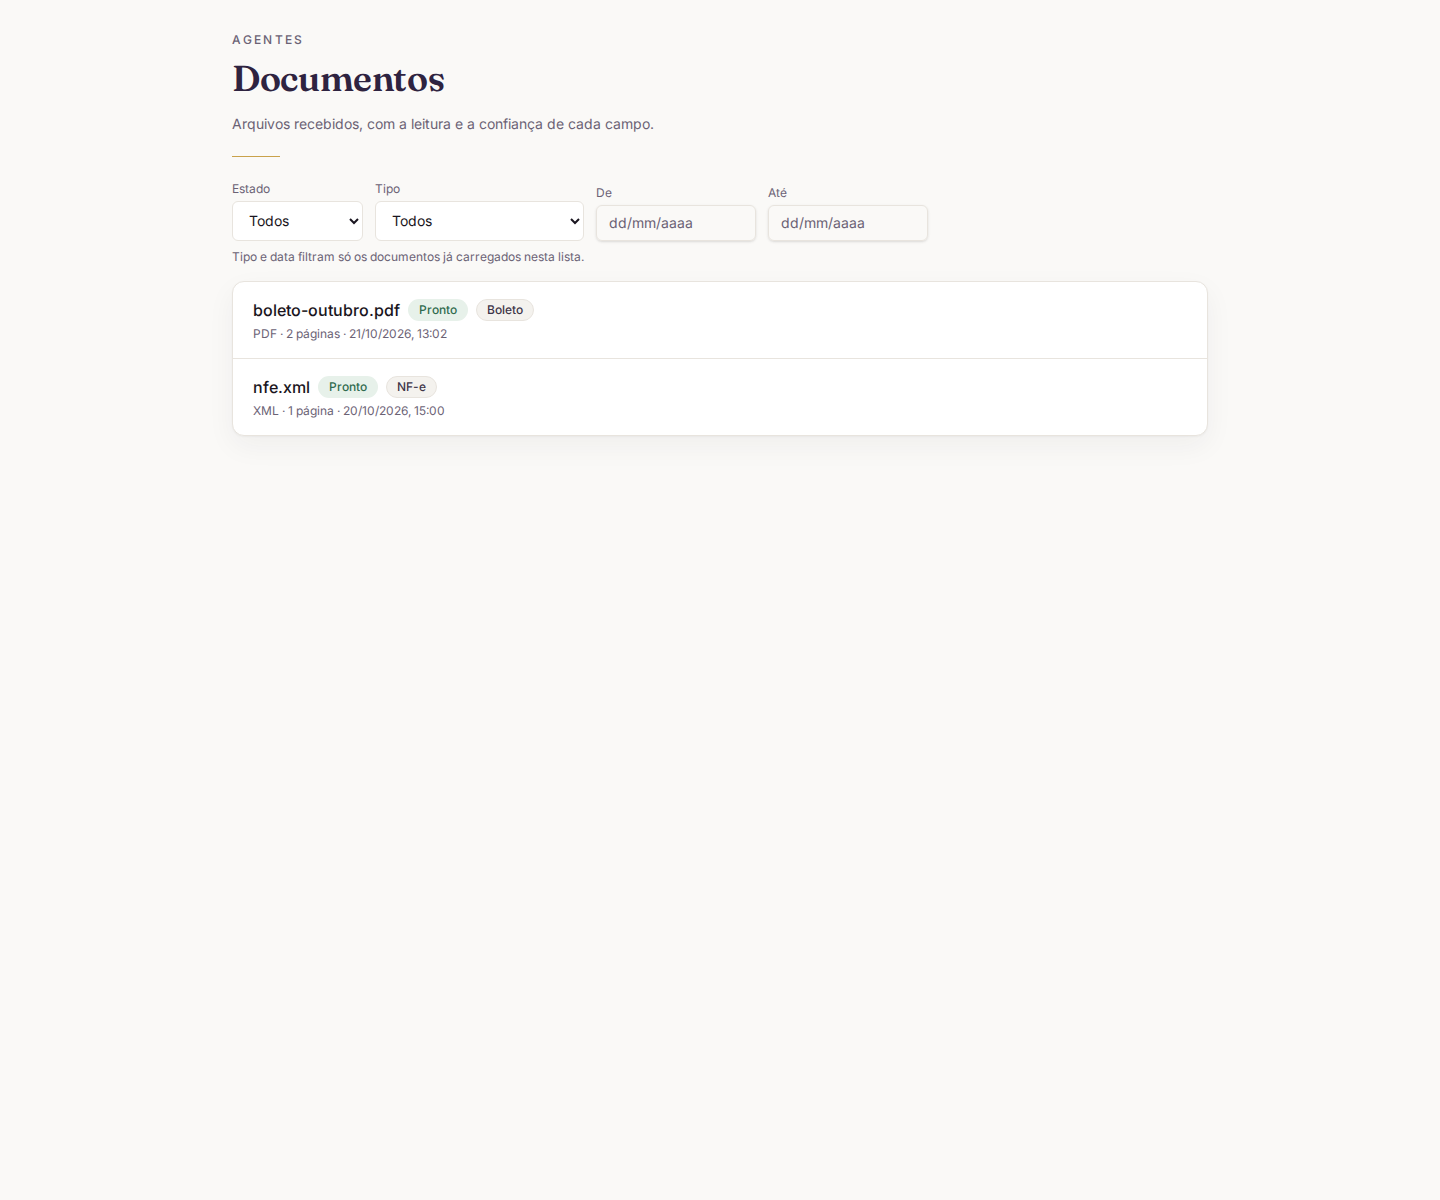
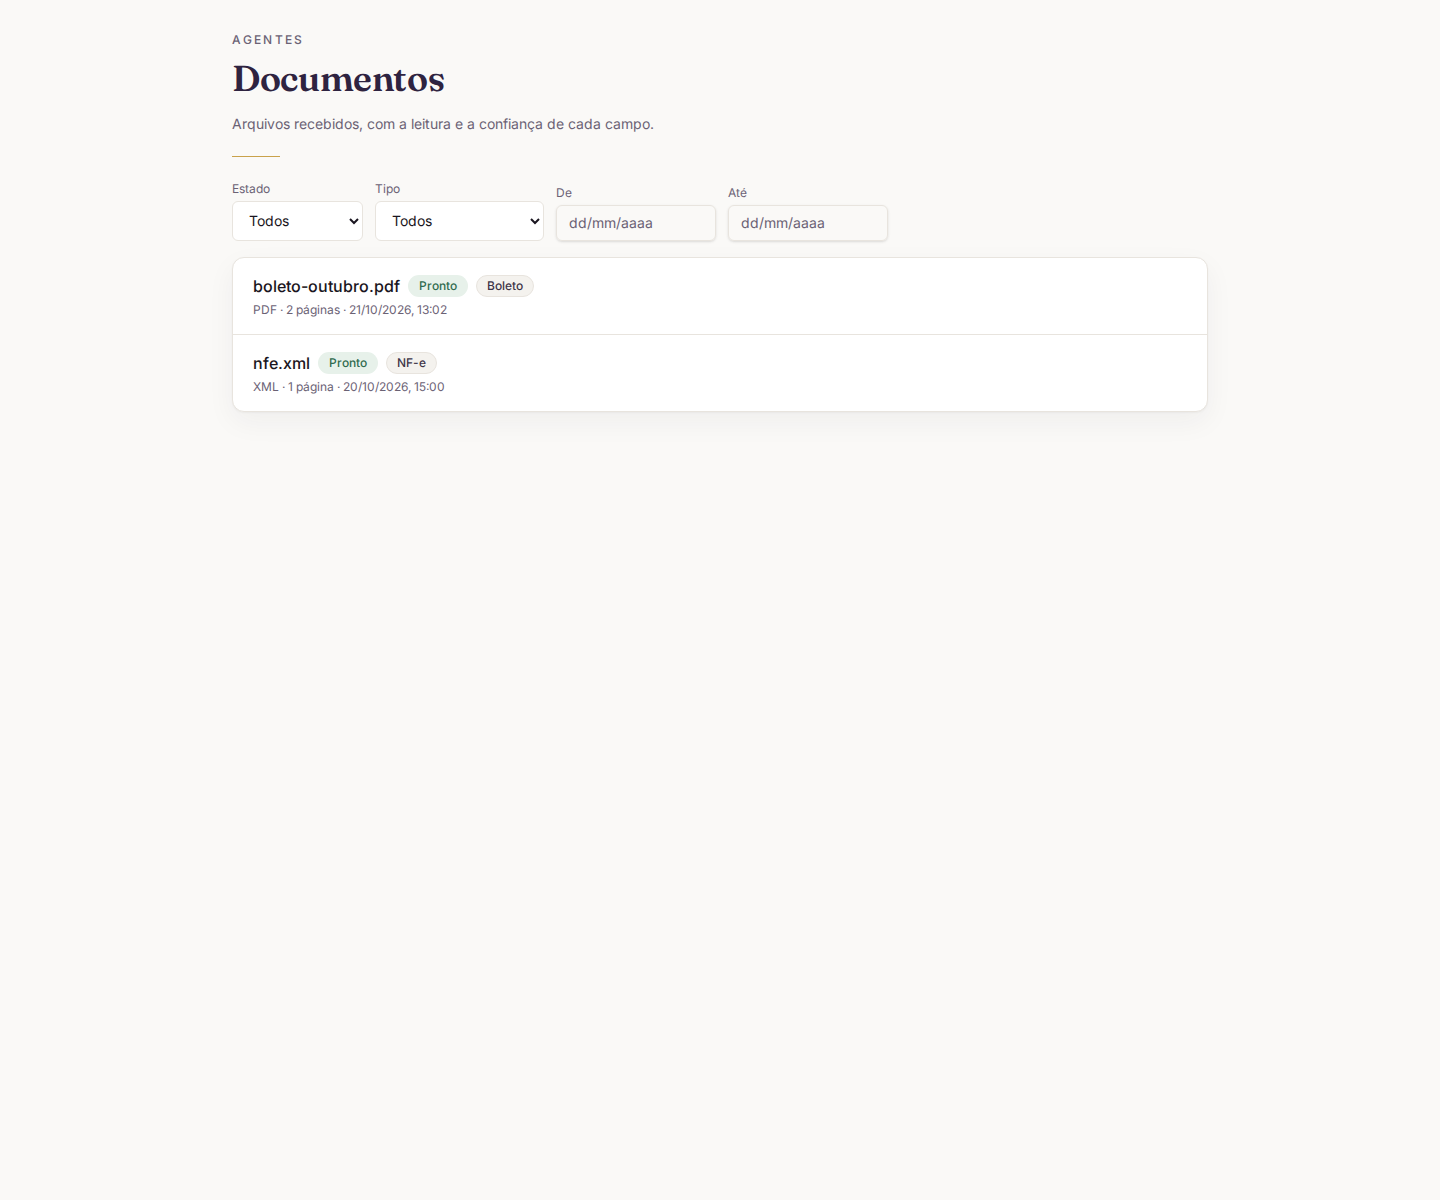
Mostra a reativação no contato e libera o segredo novo por 24 h.
O gateway já devolve quem reativou, o motivo e o prazo do segredo anterior. O botão fica com admin e plataforma.

Changed region(s): [[0.1562, 0.1542, 0.4688, 0.37], [0.5, 0.1542, 0.5938, 0.2158]]

diff --git a/src/components/luxtia/WebhooksSaida.tsx b/src/components/luxtia/WebhooksSaida.tsx
@@ -27,8 +27,8 @@ import { Input } from "@/components/ui/input";
 import { Switch } from "@/components/ui/switch";
 import { dataHoraBrasilia } from "@/lib/gateway/documentos";
 import {
-  ROTACAO_SEGREDO_LIBERADA,
   gruposDeEventos,
+  textoSegredoAnterior,
   type EntregaWebhook,
   type WebhookSaida,
 } from "@/lib/gateway/webhooks";
@@ -45,6 +45,7 @@ export function WebhooksSaidaTela({
   onTestar,
   onEntregas,
   onGerarSegredo,
+  podeGerarSegredo,
   segredo,
   onFecharSegredo,
 }: {
@@ -59,6 +60,7 @@ export function WebhooksSaidaTela({
   onTestar: (w: WebhookSaida) => void;
   onEntregas: (w: WebhookSaida) => void;
   onGerarSegredo: (w: WebhookSaida) => void;
+  podeGerarSegredo: boolean;
   segredo: string | null;
   onFecharSegredo: () => void;
 }) {
@@ -105,6 +107,11 @@ export function WebhooksSaidaTela({
                     </Etiqueta>
                   ))}
                 </div>
+                {textoSegredoAnterior(w.segredo_anterior_ate) ? (
+                  <p className="text-xs text-ink-500">
+                    {textoSegredoAnterior(w.segredo_anterior_ate)}
+                  </p>
+                ) : null}
                 <div className="flex flex-wrap gap-2">
                   <Button variant="outline" size="sm" onClick={() => setAberto(w)}>
                     Editar
@@ -120,7 +127,7 @@ export function WebhooksSaidaTela({
                   <Button variant="ghost" size="sm" onClick={() => onEntregas(w)}>
                     Entregas
                   </Button>
-                  {ROTACAO_SEGREDO_LIBERADA ? (
+                  {podeGerarSegredo ? (
                     <AlertDialog>
                       <AlertDialogTrigger asChild>
                         <Button variant="outline" size="sm" disabled={salvando}>
@@ -131,8 +138,8 @@ export function WebhooksSaidaTela({
                         <AlertDialogHeader>
                           <AlertDialogTitle>Gerar um segredo novo?</AlertDialogTitle>
                           <AlertDialogDescription>
-                            O segredo atual deixa de valer na hora. O novo aparece só desta vez —
-                            copie antes de fechar.
+                            O segredo antigo continua valendo por mais 24 horas. O novo aparece só
+                            desta vez — copie antes de fechar.
                           </AlertDialogDescription>
                         </AlertDialogHeader>
                         <AlertDialogFooter>

diff --git a/src/lib/gateway/webhooks.ts b/src/lib/gateway/webhooks.ts
@@ -108,7 +108,30 @@ export type WebhookSaida = {
   eventos: string[];
   ativo: boolean;
   segredo?: string;
+  segredo_anterior_ate?: string | null;
 };
+
+/** "Segredo anterior válido até dd/mm hh:mm" em Brasília, ou vazio se não houver prazo. */
+export function textoSegredoAnterior(iso: string | null | undefined) {
+  if (!iso) return "";
+  const data = new Date(iso);
+  if (Number.isNaN(data.getTime())) return "";
+  const partes = new Intl.DateTimeFormat("pt-BR", {
+    timeZone: "America/Sao_Paulo",
+    day: "2-digit",
+    month: "2-digit",
+    hour: "2-digit",
+    minute: "2-digit",
+    hourCycle: "h23",
+  }).formatToParts(data);
+  const ler = (tipo: string) => partes.find((p) => p.type === tipo)?.value ?? "";
+  const dia = ler("day");
+  const mes = ler("month");
+  const hora = ler("hour");
+  const minuto = ler("minute");
+  if (!dia || !mes || !hora || !minuto) return "";
+  return `Segredo anterior válido até ${dia}/${mes} ${hora}:${minuto}`;
+}
 
 export type EntregaWebhook = {
   id: number;
@@ -118,12 +141,6 @@ export type EntregaWebhook = {
   http_status: number | null;
   criado_em: string;
 };
-
-/**
- * A rota POST …/rotacionar-segredo já responde no gateway.
- * O botão fica escondido até a liberação explícita.
- */
-export const ROTACAO_SEGREDO_LIBERADA = false;
 
 export const webhookSchema = z.discriminatedUnion("acao", [
   z.object({ empresa, acao: z.literal("listar") }).strict(),

diff --git a/src/lib/gateway/documentos.test.ts b/src/lib/gateway/documentos.test.ts
@@ -11,6 +11,7 @@ import {
   origensDoTexto,
   parametrosListaDocumentos,
   rotuloCampoDocumento,
+  rotuloTipo,
   textoExpira,
 } from "./documentos";
 import { executarDocumentos } from "./documentos.server";
@@ -18,7 +19,7 @@ import { executarWebhook } from "./webhooks.server";
 import { gradeJanela, lerJanela, MENSAGEM_FOLLOWUP_AUSENTE } from "./followup";
 import { executarFollowUp } from "./followup.server";
 import { GatewayErro } from "./erros";
-import { EVENTOS_SAIDA } from "./webhooks";
+import { EVENTOS_SAIDA, textoSegredoAnterior } from "./webhooks";
 
 test("escopo documentos:enviar entra na criação da chave da empresa", () => {
   expect(ESCOPOS).toContain("documentos:enviar");
@@ -156,6 +157,15 @@ test("detalhe do documento usa rótulo, real e data — nunca a chave", () => {
   expect(dataBrParaIso("21/10/2026")).toBe("2026-10-21");
   expect(dataBrParaIso("31/02/2026")).toBe("");
   expect(isoParaDataBr("2026-10-21")).toBe("21/10/2026");
+});
+
+test("rótulos de conta de consumo e cobrança Pix", () => {
+  expect(rotuloTipo("boleto_concessionaria")).toBe("Conta de consumo");
+  expect(rotuloTipo("pix_cobranca")).toBe("Cobrança Pix");
+  expect(textoSegredoAnterior("2026-10-23T17:32:00Z")).toBe(
+    "Segredo anterior válido até 23/10 14:32",
+  );
+  expect(textoSegredoAnterior(null)).toBe("");
 });
 
 test("ensaio do follow-up avisa que só o primeiro é registrado", () => {

diff --git a/tests/visual/arq-fup/main.tsx b/tests/visual/arq-fup/main.tsx
@@ -319,6 +319,7 @@ function Webhooks() {
             url: "https://sistema.exemplo.com.br/luxtia",
             eventos: ["documento.pronto", "conversa.resposta", "follow_up.agendado"],
             ativo: true,
+            segredo_anterior_ate: "2026-10-23T17:32:00Z",
           },
         ]}
         carregando={false}
@@ -329,6 +330,7 @@ function Webhooks() {
         onDesativar={() => undefined}
         onTestar={() => undefined}
         onEntregas={() => undefined}
+        podeGerarSegredo
         onGerarSegredo={() => setSegredo("whsec_exemplo_nao_usar")}
         segredo={segredo}
         onFecharSegredo={() => setSegredo(null)}
@@ -447,6 +449,7 @@ function Conversa() {
               actor: null,
               removido_em: null,
               removido_por: null,
+              removido_motivo: null,
             }}
             podeReativar
             onReativar={() => undefined}

diff --git a/src/routes/_authenticated/ia/webhooks-saida.tsx b/src/routes/_authenticated/ia/webhooks-saida.tsx
@@ -84,6 +84,7 @@ function Tela({ ctx }: { ctx: ContextoGateway }) {
     onSuccess: (r) => {
       if (r.segredo) setSegredo(r.segredo);
       else toast.error("O gateway não devolveu o segredo novo.");
+      void recarregar();
     },
     onError: (e: Error) => toast.error(e.message),
   });
@@ -111,6 +112,7 @@ function Tela({ ctx }: { ctx: ContextoGateway }) {
       onDesativar={(w) => desativar.mutate(w.id)}
       onTestar={(w) => testar.mutate(w.id)}
       onEntregas={(w) => verEntregas.mutate(w.id)}
+      podeGerarSegredo={ctx.papel === "admin" || ctx.papel === "plataforma"}
       onGerarSegredo={(w) => rotacionar.mutate(w.id)}
       segredo={segredo}
       onFecharSegredo={() => setSegredo(null)}

diff --git a/src/components/luxtia/FollowUpConversa.tsx b/src/components/luxtia/FollowUpConversa.tsx
@@ -42,7 +42,16 @@ export function SeloOptOut({
 }) {
   const [aberto, setAberto] = useState(false);
   const [motivo, setMotivo] = useState("");
-  if (!optOut?.ativo) return null;
+  if (!optOut) return null;
+  if (!optOut.ativo) {
+    if (!optOut.removido_por && !optOut.removido_motivo) return null;
+    return (
+      <span className="text-xs text-ink-500">
+        {optOut.removido_por ? `Reativado por ${optOut.removido_por}` : "Reativado"}
+        {optOut.removido_motivo ? `. Motivo: ${optOut.removido_motivo}` : ""}
+      </span>
+    );
+  }
   const origem = optOut.origem ? ROTULO_ORIGEM_OPTOUT[optOut.origem] : null;
   return (
     <span className="inline-flex flex-wrap items-center gap-2">

diff --git a/src/lib/gateway/documentos.ts b/src/lib/gateway/documentos.ts
@@ -37,12 +37,12 @@ export const ROTULO_FORMATO: Record<string, string> = {
 
 export const ROTULO_TIPO_DOCUMENTO: Record<string, string> = {
   boleto: "Boleto",
-  boleto_concessionaria: "Boleto de concessionária",
+  boleto_concessionaria: "Conta de consumo",
   nfe: "NF-e",
   nfce: "NFC-e",
   nfse: "NFS-e",
   pix: "PIX",
-  pix_cobranca: "Cobrança PIX",
+  pix_cobranca: "Cobrança Pix",
   comprovante: "Comprovante",
   comprovante_pix: "Comprovante PIX",
   outro: "Outro",

diff --git a/src/lib/gateway/followup.ts b/src/lib/gateway/followup.ts
@@ -76,6 +76,7 @@ export type OptOutFollowUp = {
   actor: string | null;
   removido_em: string | null;
   removido_por: string | null;
+  removido_motivo: string | null;
 };
 
 export type ListaFollowUp = {

diff --git a/README.md b/README.md
@@ -57,7 +57,7 @@ O menu Pedidos, para administrador, plataforma e atendente, abre com indicadores
 
 ## Conversas
 
-A lista e o detalhe mostram o atendimento atual (número, aberto, com humano ou encerrado, aberto em, encerrado em e motivo), o bloco de follow-up (agendado, cancelado ou ensaio, com horário de Brasília, tipo da pendência, motivo e “Cancelar este” na linha do agendado) e o selo “não quer follow-up” no contato, com Reativar só para admin e plataforma — a confirmação pede um motivo de pelo menos 3 caracteres, enviado no corpo do DELETE —, além do estado da conversa (encerrada, aguardando atendente, atendente ou bot), do canal com o nome cadastrado e do telefone legível. O histórico lista os atendimentos anteriores, com resumo, e as mensagens podem ser filtradas por atendimento. Admin e membro encerram o atendimento aberto ou reabrem só o último; se o gateway recusar (409), a tela explica e pede para atualizar. Nenhuma dessas ações envia mensagem ao cliente. Desde o PED1-c, o nome é o de exibição do gateway (cadastro > informado > perfil > telefone) com um selo discreto da origem; conversas de teste levam o selo "teste"; a última mensagem mostra autor e tipo; aparecem a unidade preferida e o pedido aberto, com atalho para o pedido. Filtros por estado (inclusive Encerrada) e ordem por atividade recente; a busca cobre os três nomes e o telefone. Qualquer papel usa "Editar nome" no cabeçalho para gravar o nome de cadastro (vazio apaga e volta ao próximo da prioridade); o gateway audita quem alterou. Os Pedidos mostram o mesmo nome da conversa. A tela pede o último evento confirmado (`GET /admin/v1/tenants/{tenant}/eventos/cursor`) antes de carregar a lista e usa esse `ultimo_id` como `desde` do polling.
+A lista e o detalhe mostram o atendimento atual (número, aberto, com humano ou encerrado, aberto em, encerrado em e motivo), o bloco de follow-up (agendado, cancelado ou ensaio, com horário de Brasília, tipo da pendência, motivo e “Cancelar este” na linha do agendado) e o selo “não quer follow-up” no contato, com Reativar só para admin e plataforma — a confirmação pede um motivo de pelo menos 3 caracteres, enviado no corpo do DELETE; depois, o contato mostra quem reativou e o motivo —, além do estado da conversa (encerrada, aguardando atendente, atendente ou bot), do canal com o nome cadastrado e do telefone legível. O histórico lista os atendimentos anteriores, com resumo, e as mensagens podem ser filtradas por atendimento. Admin e membro encerram o atendimento aberto ou reabrem só o último; se o gateway recusar (409), a tela explica e pede para atualizar. Nenhuma dessas ações envia mensagem ao cliente. Desde o PED1-c, o nome é o de exibição do gateway (cadastro > informado > perfil > telefone) com um selo discreto da origem; conversas de teste levam o selo "teste"; a última mensagem mostra autor e tipo; aparecem a unidade preferida e o pedido aberto, com atalho para o pedido. Filtros por estado (inclusive Encerrada) e ordem por atividade recente; a busca cobre os três nomes e o telefone. Qualquer papel usa "Editar nome" no cabeçalho para gravar o nome de cadastro (vazio apaga e volta ao próximo da prioridade); o gateway audita quem alterou. Os Pedidos mostram o mesmo nome da conversa. A tela pede o último evento confirmado (`GET /admin/v1/tenants/{tenant}/eventos/cursor`) antes de carregar a lista e usa esse `ultimo_id` como `desde` do polling.
 
 ## Comportamento do agente
 
@@ -71,7 +71,7 @@ Na chave de API da empresa, nenhum escopo vem marcado. “Resposta assíncrona (
 
 ## Webhooks de saída
 
-`/ia/webhooks-saida`, para admin e plataforma, cria a URL e os eventos. Entram documento pronto, documento falhou, documento apagado, resposta do agente, follow-up agendado, follow-up cancelado e follow-up em ensaio, além dos eventos de pedido que já existiam. O webhook novo nasce ativo. O segredo HMAC aparece uma vez, no mesmo aviso da chave de formulário. O botão “Gerar novo segredo” fica escondido até a liberação, mesmo com a rota de rotação no gateway. A tela testa o envio e mostra as últimas entregas.
+`/ia/webhooks-saida`, para admin e plataforma, cria a URL e os eventos. Entram documento pronto, documento falhou, documento apagado, resposta do agente, follow-up agendado, follow-up cancelado e follow-up em ensaio, além dos eventos de pedido que já existiam. O webhook novo nasce ativo. O segredo HMAC aparece uma vez, no mesmo aviso da chave de formulário. “Gerar novo segredo” aparece para admin e plataforma, com confirmação de que o segredo antigo vale mais 24 horas. O novo aparece uma vez. Enquanto o anterior ainda assina, a lista mostra até quando. A tela testa o envio e mostra as últimas entregas.
 
 O proxy aceita até 11 MiB só em `/gateway/api/v1/documentos` e subcaminhos. O restante de `/gateway/api/*` continua em 2 MiB.
 

diff --git a/docs/worklog.md b/docs/worklog.md
@@ -1,3 +1,18 @@
+## [2026-10-22 13:33] — Rotas do gateway no painel (não publicado)
+- **Autor:** Grok 4.7
+- **Objetivo:** Mostrar a reativação no contato, os rótulos novos e o botão de segredo com a janela de 24 h.
+- **Arquivos alterados:**
+  - `src/lib/gateway/followup.ts`, `src/components/luxtia/FollowUpConversa.tsx` — modificados — depois de reativar, o contato mostra quem fez e o motivo
+  - `src/lib/gateway/documentos.ts` — modificado — “Conta de consumo” e “Cobrança Pix”
+  - `src/lib/gateway/webhooks.ts`, `WebhooksSaida.tsx`, `ia/webhooks-saida.tsx` — modificados — botão para admin e plataforma, confirmação de 24 h, prazo do segredo anterior
+  - `docs/prints-arq-fup/15`, `16` e `05` — modificados — prints da reativação, do segredo novo e da lista
+- **Resumo das mudanças:** O motivo já ia no DELETE. Agora o retorno fica visível no contato. O botão de segredo novo saiu do esconderijo, com o aviso de que o antigo vale mais 24 horas.
+- **Decisões e justificativas:** Plataforma também vê o botão: a tela de webhooks já é só desses dois papéis e o servidor do painel deixa a plataforma chamar a rota. Membro não abre a tela.
+- **Comandos executados:** `bun test` documentos e módulo → 35 OK; `tsc --noEmit` → OK; ESLint → OK (avisos antigos da prévia); prints Playwright → OK
+- **Erros e resoluções:** nenhum
+- **Pendências / TODO:** não publicado
+- **Próximos passos:** publicar só com liberação
+
 ## [2026-10-22 12:27] — Ajustes pós-revisão 693249e (não publicado)
 - **Autor:** Grok 4.7
 - **Objetivo:** Esconder a rotação do segredo, filtrar documentos no gateway e enviar o motivo ao reativar.

diff --git a/instrucoes.md b/instrucoes.md
@@ -1,7 +1,13 @@
+## Rotas do gateway no painel — ainda não publicado (22/10/2026)
+
+- Reativar envia `motivo` (3 a 300). No contato, depois da reativação, aparecem quem reativou e o motivo.
+- Lista de documentos filtra no gateway (`tipo_documento`, `de`, `ate`). “Conta de consumo” e “Cobrança Pix” são os rótulos.
+- “Gerar novo segredo” aparece para admin e plataforma. A confirmação avisa que o segredo antigo vale mais 24 h. O novo sai uma vez. A lista mostra “Segredo anterior válido até dd/mm hh:mm”.
+- Sem publicação.
+
 ## Ajustes depois da revisão 693249e — ainda não publicado (22/10/2026)
 
-- “Gerar novo segredo” fica escondido (`ROTACAO_SEGREDO_LIBERADA = false`), mesmo com `POST …/rotacionar-segredo` já no gateway. Liga quando for liberado.
-- Tipo e período da lista de documentos vão em `GET …/anexos` (`tipo_documento`, `de`, `ate`, dia de Brasília). O aviso de filtro só na página carregada saiu.
+- Tipo e período da lista de documentos vão em `GET …/anexos`. O aviso de filtro só na página carregada saiu.
 - Reativar follow-up exige motivo (3 a 300 caracteres) e envia no corpo do `DELETE …/opt-out-follow-up`.
 - Sem publicação.
 
